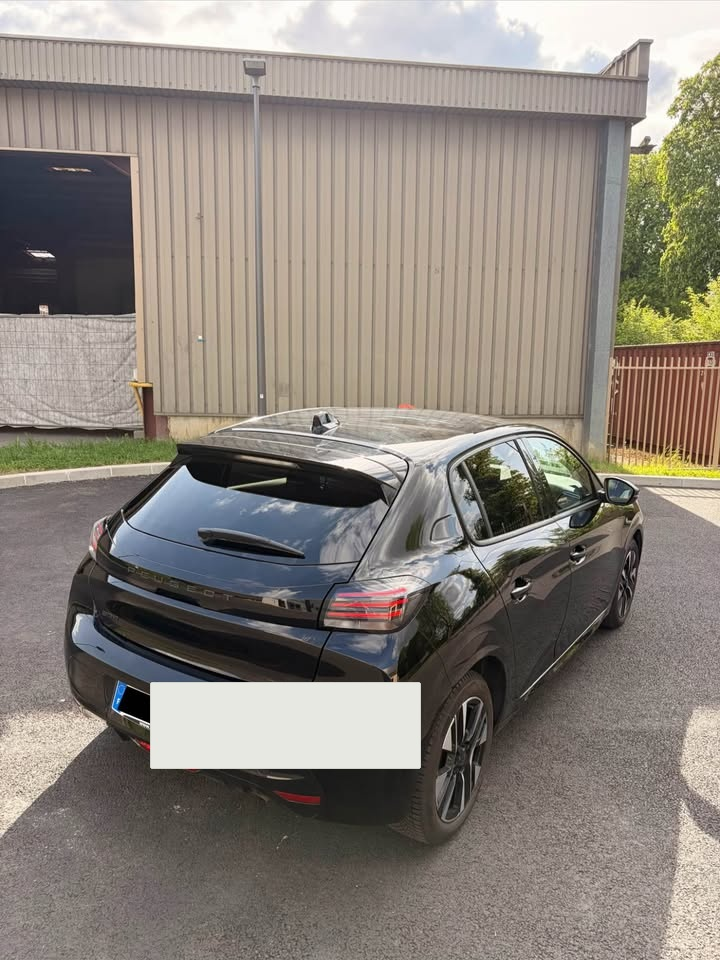
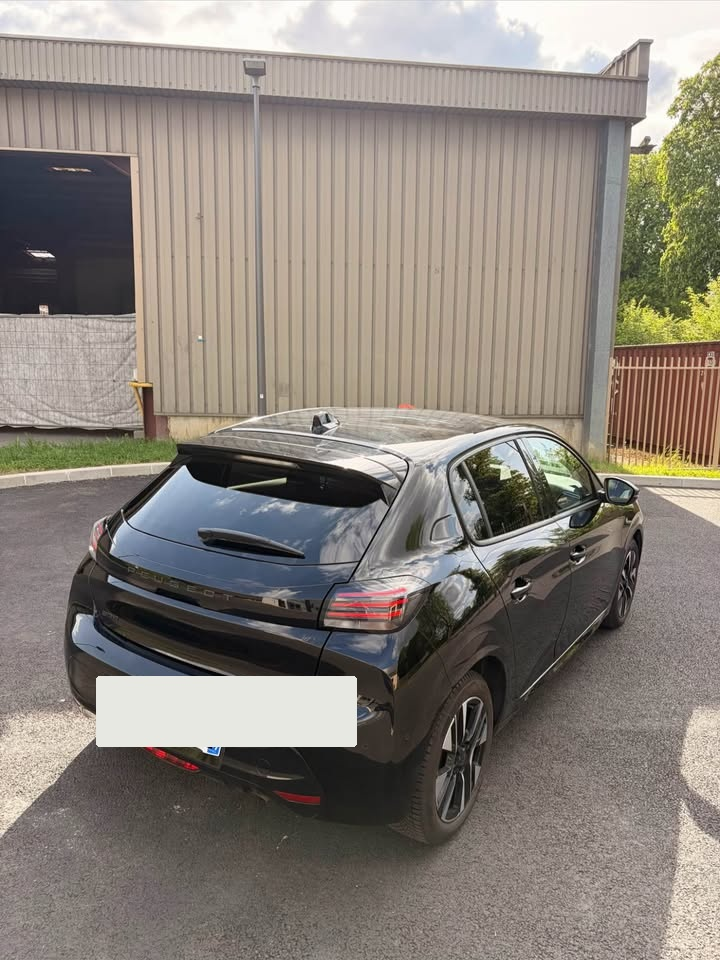
Move the 208 plate covers onto the plates and shrink them so they no longer sit on the tire.

Changed region(s): [[0.1222, 0.6875, 0.6111, 0.8125]]

diff --git a/js/vehicles.js b/js/vehicles.js
@@ -234,12 +234,12 @@ const VEHICLES = [
     price: 65,
     deposit: 800,
     featured: true,
-    image: "images/208/trois-quarts.jpg",
+    image: "images/208/trois-quarts.jpg?v=31",
     images: [
-      "images/208/trois-quarts.jpg",
-      "images/208/avant.jpg",
-      "images/208/arriere.jpg",
-      "images/208/poste.jpg",
+      "images/208/trois-quarts.jpg?v=31",
+      "images/208/avant.jpg?v=31",
+      "images/208/arriere.jpg?v=31",
+      "images/208/poste.jpg?v=31",
     ],
     blurb:
       "Une 208 2024, noire, i-Cockpit et écran central. Compacte, récente, manuelle : la citadine pour la ville, un week-end ou un remplacement sans se prendre la tête.",

diff --git a/index.html b/index.html
@@ -16,7 +16,7 @@
       rel="stylesheet"
     />
     <link rel="icon" type="image/png" href="images/logo.png" />
-    <link rel="stylesheet" href="css/styles.css?v=30" />
+    <link rel="stylesheet" href="css/styles.css?v=31" />
   </head>
   <body>
     <div class="loader" id="pageLoader" aria-hidden="true">
@@ -462,7 +462,7 @@
       </article>
     </dialog>
 
-    <script src="js/vehicles.js?v=30"></script>
-    <script src="js/app.js?v=30"></script>
+    <script src="js/vehicles.js?v=31"></script>
+    <script src="js/app.js?v=31"></script>
   </body>
 </html>
